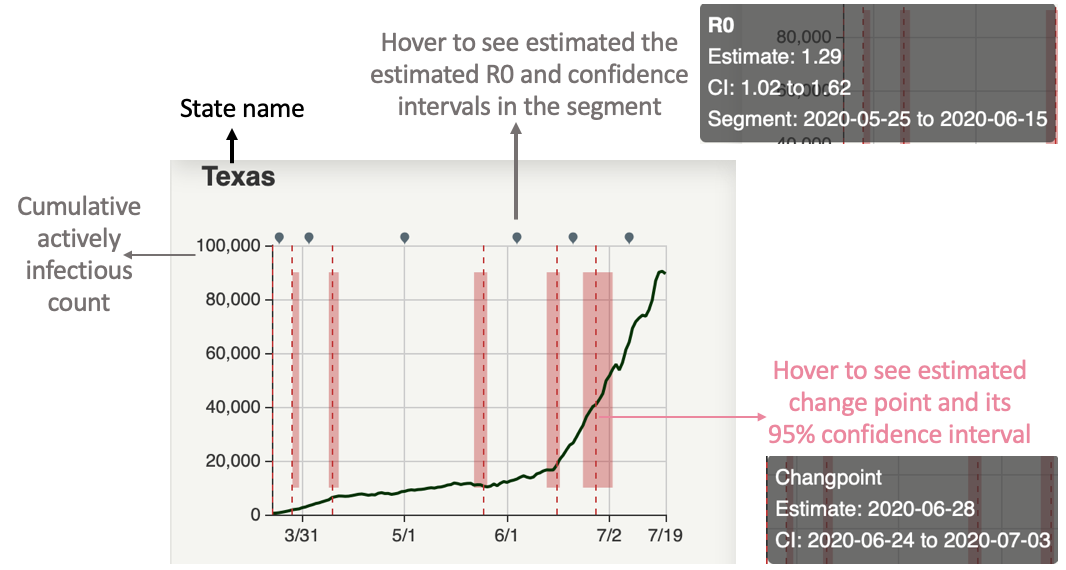
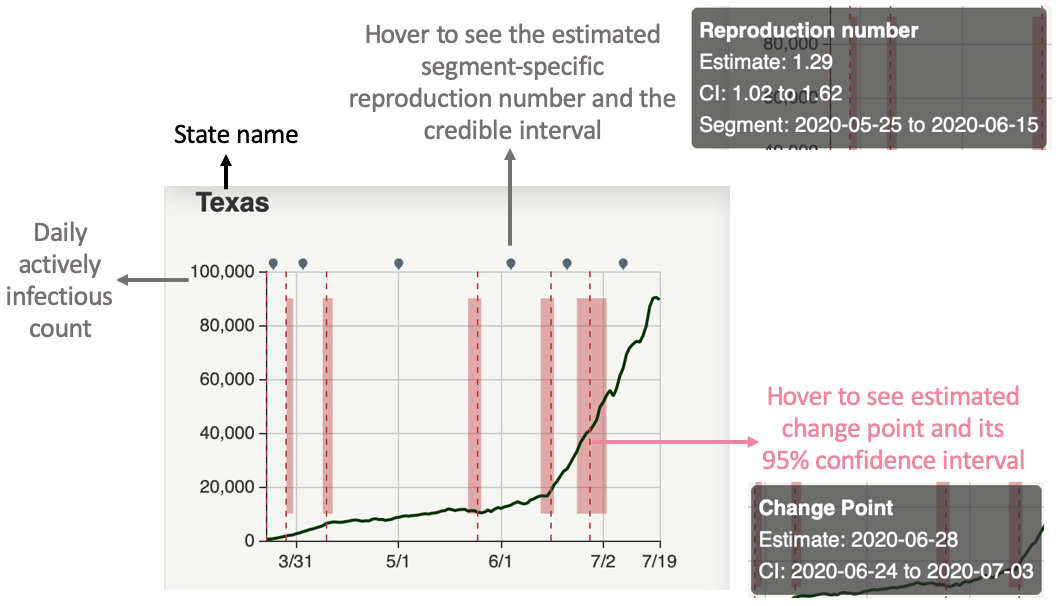
update texts/pics

diff --git a/docs/index.html b/docs/index.html
@@ -141,11 +141,11 @@
         var changePoint_line = changePoint.map( function(x) { 
             return {
                 "name" : "CP", xAxis: x["estimate"][0], 
-                "label": "Changpoint<br/>Estimate: " + x["estimate"][0] + 
+                "label": "<b>Change Point</b><br/>Estimate: " + x["estimate"][0] + 
                 (x["span"].length === 2 ? "<br/>CI: " + x["span"][0] + " to " + x["span"][1] : "") } });            
         var changePoint_area = changePoint.map( function(x) { return {
             "span": x["span"],
-            "label": "Changpoint<br/>Estimate: " + x["estimate"][0] + "<br/>CI: " + x["span"][0] + " to " + x["span"][1]}});
+            "label": "<b>Change Point</b><br/>Estimate: " + x["estimate"][0] + "<br/>CI: " + x["span"][0] + " to " + x["span"][1]}});
         changePoint_area = changePoint_area.filter(function(x) {return x["span"].length === 2});
         changePoint_area = changePoint_area.map(x => [ {label: x["label"], coord: [x["span"][0], max_infected * 0.1]}, {coord: [x["span"][1], max_infected * 0.9]}]);
         var r0 = DATA[i]["r0"];
@@ -180,10 +180,10 @@
                     //     console.log(params[0]);     
                     if (params.componentType == "series") {
                         if (params.seriesName == "R0") {
-                            return "<b>R0</b>" + r0_text[params.dataIndex];
+                            return "<b>Reproduction number</b>" + r0_text[params.dataIndex];
                         } else if (params.componentSubType == "line") {
                            // console.log("line:", params);
-                            return "Actively infected cases<br/>Date: " + params.data[0] + "<br/>Number:" + params.data[1]   ;
+                            return "Daily actively infectious count<br/>Date: " + params.data[0] + "<br/>Number: " + params.data[1]   ;
                         } else {
                             
                         }
